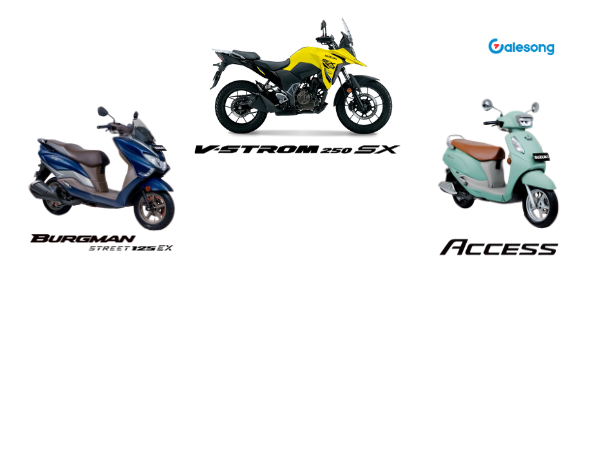
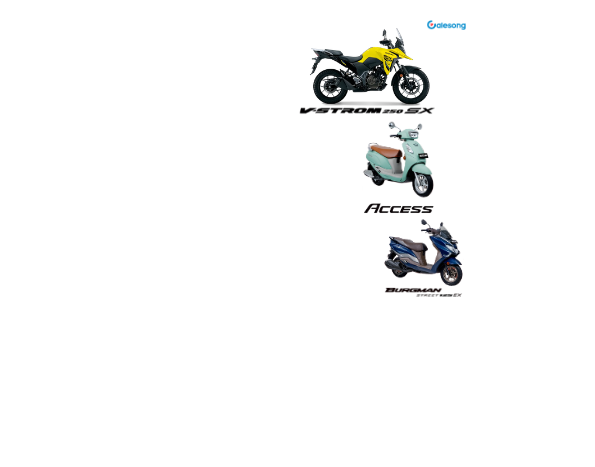
update mobile

diff --git a/style.css b/style.css
@@ -219,6 +219,11 @@ button { font-family: inherit; cursor: pointer; }
   color: var(--white);
   letter-spacing: -0.01em;
 }
+.hero-break { display: none; }
+
+@media (max-width: 768px) {
+  .hero-break { display: block; }
+}
 .hero-subtitle {
   color: rgba(255, 255, 255, 0.82);
   font-size: 1.08rem;
@@ -488,7 +493,11 @@ button { font-family: inherit; cursor: pointer; }
   .brand-logo { height: 28px; }
 
   .hero { min-height: auto; padding-top: 8px; }
-  .hero-overlay { background: linear-gradient(180deg, rgba(11,31,58,0.55) 0%, var(--navy) 78%); }
+  .hero-overlay {
+  position: absolute;
+  inset: 0;
+  background: linear-gradient(90deg, rgba(11, 31, 58, 0.92) 0%, rgba(11, 31, 58, 0.75) 30%, rgba(11, 31, 58, 0.25) 55%, rgba(11, 31, 58, 0) 75%);
+}
   .hero-inner { padding: 64px 20px 56px; }
   .hero-bg { background-position: center 30%; }
   .hero-bg {
@@ -497,6 +506,9 @@ button { font-family: inherit; cursor: pointer; }
   background-size: cover;
   }
   .hero-text { max-width: 100%; }
+  .hero-subtitle {
+  max-width: 300px;
+  }
   .hero-actions { flex-direction: column; }
   .hero-actions .btn { width: 100%; }
 

diff --git a/script.js b/script.js
@@ -171,7 +171,7 @@ function buildWhatsappLink(message) {
 /** Render header lokasi & judul dari config */
 function renderStaticText() {
   document.getElementById("headerCity").textContent = siteConfig.city;
-  document.getElementById("heroTitle").textContent = siteConfig.hero.title;
+  document.getElementById("heroTitle").innerHTML = siteConfig.hero.title.replace(" ", " <br class=\"hero-break\">");
   document.getElementById("heroSubtitle").textContent = siteConfig.hero.subtitle;
 
   document.getElementById("showroomName").textContent = siteConfig.showroomName;
